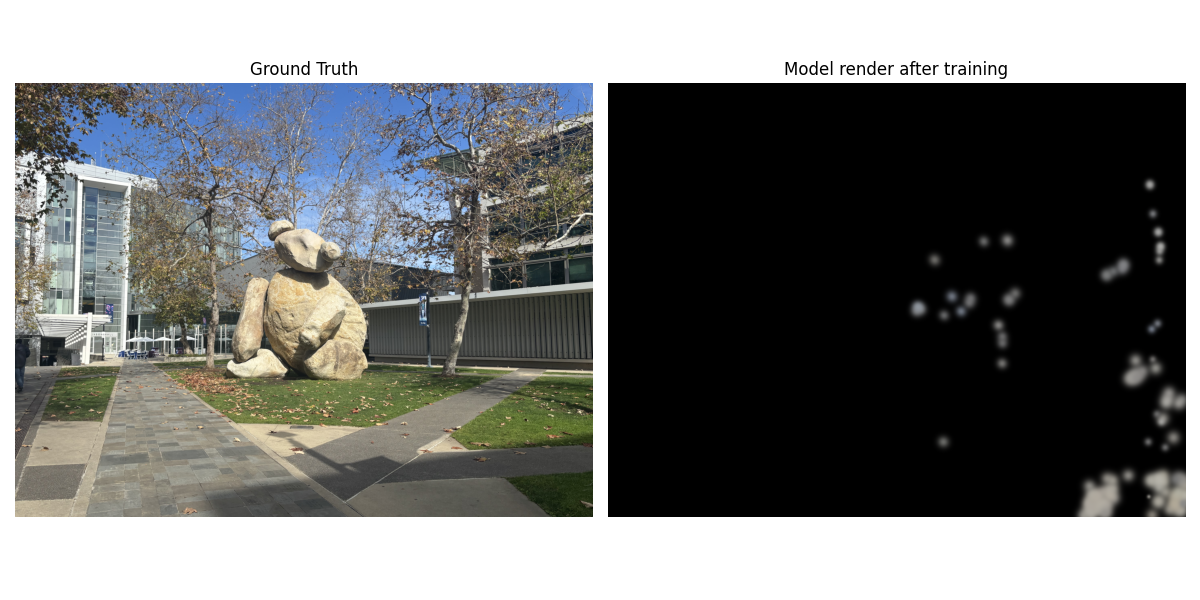
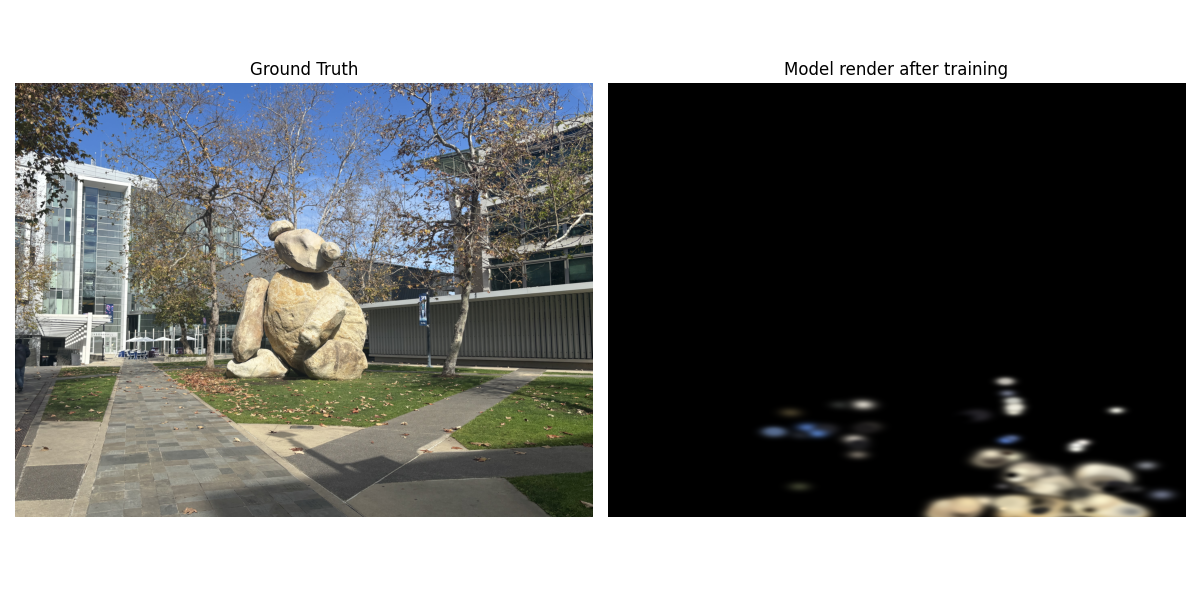
changes to cx and fy

diff --git a/colmap_test/testcolmap.py b/colmap_test/testcolmap.py
@@ -50,10 +50,11 @@ def load_cameras_from_colmap(reconstruction, images_path="images"):
         # Inside the loop, after getting colmap_cam
         fx_raw = colmap_cam.params[0]
         fy_raw = colmap_cam.params[1] if len(colmap_cam.params) > 1 else fx_raw
-        cx_raw = colmap_cam.params[2] if len(colmap_cam.params) > 2 else width / 2
-        cy_raw = colmap_cam.params[3] if len(colmap_cam.params) > 3 else height / 2
+        
         width = colmap_cam.width
         height = colmap_cam.height
+        cx_raw = colmap_cam.params[2] if len(colmap_cam.params) > 2 else width / 2
+        cy_raw = height / 2
         
         FoVx = 2 * np.arctan(width / (2 * fx))
         FoVy = 2 * np.arctan(height / (2 * fx))  # Assuming square pixels
@@ -82,7 +83,7 @@ def load_cameras_from_colmap(reconstruction, images_path="images"):
             'target_image': target_img,
             'name': colmap_image.name
         })
-    
+    print(f"Image: {colmap_image.name} | Model: {colmap_cam.model} | Params: {colmap_cam.params}")
     print(f"Loaded {len(cameras_data)} cameras with target images")
     for i, cam_data in enumerate(cameras_data):
         cam = cam_data['camera']

diff --git a/colmap_test/render.py b/colmap_test/render.py
@@ -79,12 +79,13 @@ def render_differentiable(
     # image_center_x = camera.image_width / 2
     # image_center_y = camera.image_height / 2
     fx = camera.fx_raw
-    fy = camera.fy_raw
+    fy = camera.fy_raw * (height / width) #changed to try to fix
     
     #scale the normalized x and y to 2d, and make it so center is in top left corner to avoid negatives
     pixel_x = x_normalized * fx + camera.cx_raw
     pixel_y = y_normalized * fy  + camera.cy_raw
     
+
     print(f"Raw intrinsics: fx={camera.fx_raw:.1f}, fy={camera.fy_raw:.1f}, "
       f"cx={camera.cx_raw:.1f}, cy={camera.cy_raw:.1f}")
     print(f"Recomputed fx from FoV: {camera.image_width / (2 * math.tan(camera.FoVx / 2)):.1f}")
